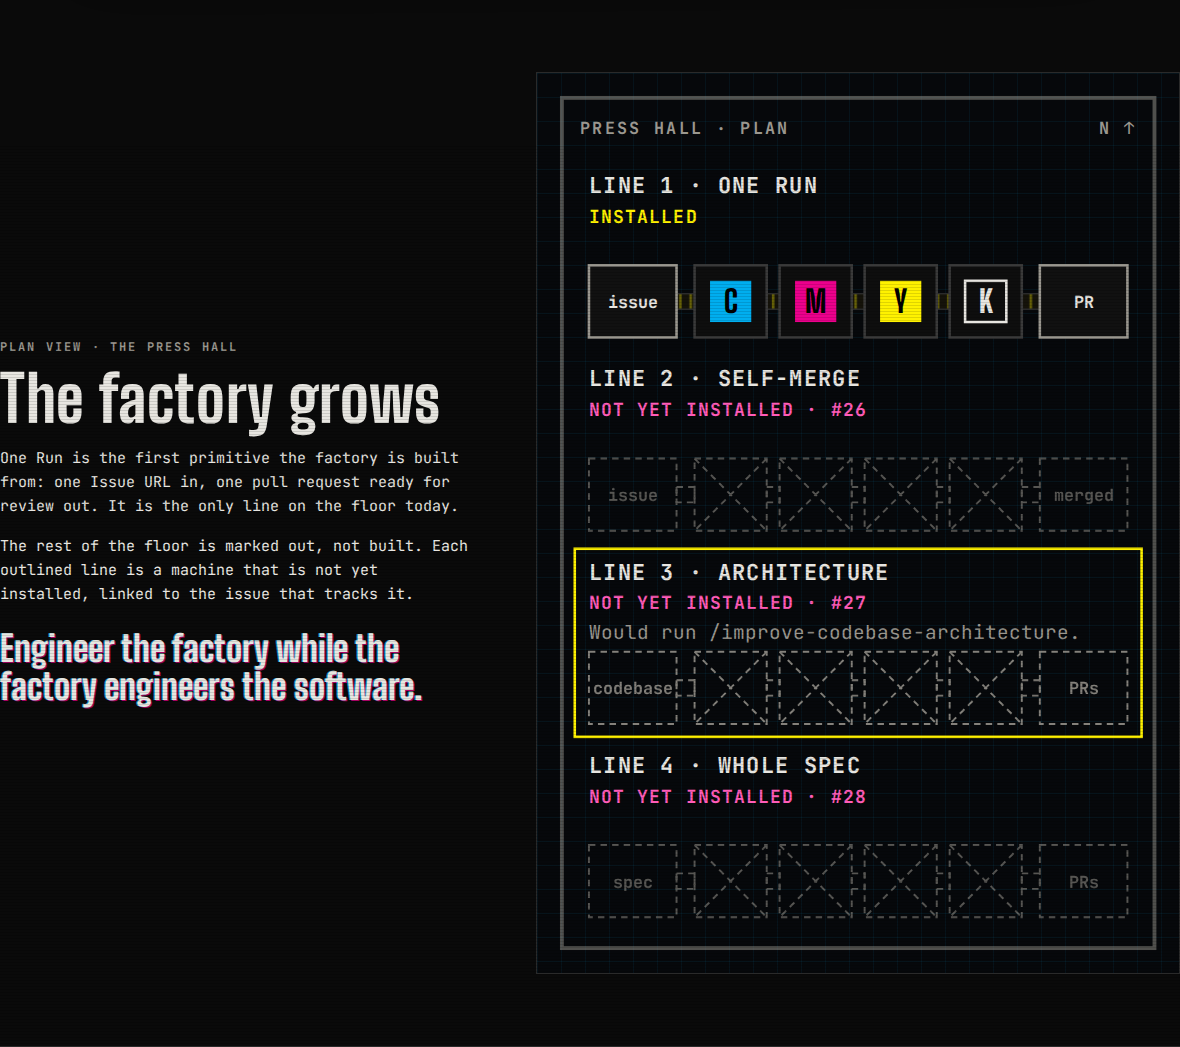
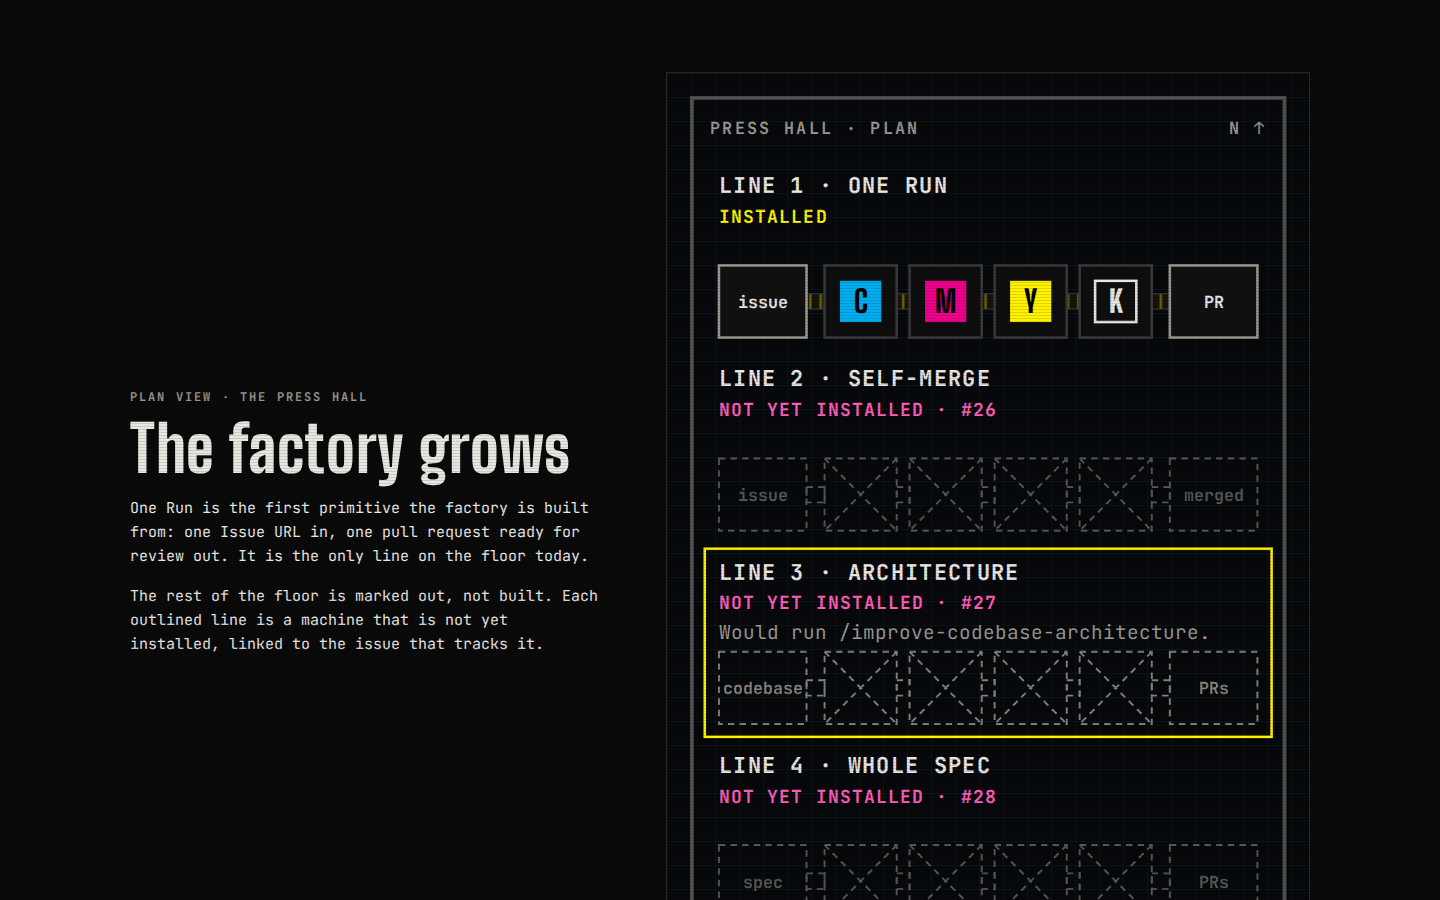
End the section on the closing line; name the SVG labels plainly
- Move "Engineer the factory while the factory engineers the software."
  after the floor plan, spanning both columns, so it ends the section on
  every screen size and for screen readers.
- Rename .line-t/.chest-t/.ink-t to .line-label/.chest-label/.ink-letter
  and drop the unused c/m/y modifiers on the ink letters.
- Colour the belt base from styles.css, not an inline fill.
- Note the 150-unit line pitch, and fix the section-order comment.
- Retake the screenshots.

Changed region(s): [[0.0, 0.0622, 1.0, 1.0], [0.0, 0.3111, 0.4271, 0.7467], [0.8237, 0.3733, 0.8542, 0.4044]]

diff --git a/site/index.html b/site/index.html
@@ -50,22 +50,22 @@
   </div>
 </header>
 
-<!-- Section 5 of the home page order in #61: the factory grows. -->
+<!-- The factory grows: "How the factory will grow" in the home page order in #61. -->
 <section class="wrap grows" id="grows" aria-labelledby="grows-title">
   <div class="grows-text">
     <p class="eyebrow">Plan view · the press hall</p>
     <h2 id="grows-title">The factory grows</h2>
     <p>One Run is the first primitive the factory is built from: one Issue URL in, one pull request ready for review out. It is the only line on the floor today.</p>
     <p>The rest of the floor is marked out, not built. Each outlined line is a machine that is not yet installed, linked to the issue that tracks it.</p>
-    <p class="closing misreg">Engineer the factory while the factory engineers the software.</p>
   </div>
   <figure class="floor grid-bg">
-    <!-- Drawn once, by hand: no animation. Every label is visible text; the hints also show on hover and focus. -->
+    <!-- Drawn once, by hand: no animation. Every label is visible text; the hints also show on hover and focus.
+         Lines sit on a 150-unit pitch (146 frame + 4 gap) from y=60; a new line means a new translate and a taller viewBox and hall. -->
     <svg viewBox="0 0 480 680" role="group" aria-labelledby="floor-title" aria-describedby="floor-desc">
       <title id="floor-title">Floor plan of the press hall</title>
       <desc id="floor-desc">One press line is installed: a Run, from the issue through units C, M, Y and K to a pull request. Three more lines are outlined and not yet installed: self-merge, the architecture pass and implementing a whole spec.</desc>
       <defs>
-        <pattern id="floor-belt" width="8" height="12" patternUnits="userSpaceOnUse"><rect width="8" height="12" fill="#15130a"/><rect class="belt-slat" x="5" width="2" height="12"/></pattern>
+        <pattern id="floor-belt" width="8" height="12" patternUnits="userSpaceOnUse"><rect class="belt-base" width="8" height="12"/><rect class="belt-slat" x="5" width="2" height="12"/></pattern>
       </defs>
       <g class="hall" aria-hidden="true">
         <rect x="10" y="10" width="460" height="660"/>
@@ -75,73 +75,74 @@
       <g transform="translate(0 60)">
         <a href="https://github.com/JacobStephens2/thirdshift#what-a-run-does" class="line">
           <rect class="frame" x="20" y="0" width="440" height="146"/>
-          <text class="line-t" x="31" y="24">LINE 1 · ONE RUN</text>
+          <text class="line-label" x="31" y="24">LINE 1 · ONE RUN</text>
           <text class="status" x="31" y="47">INSTALLED</text>
           <text class="hint" x="31" y="70">An Issue URL in, a pull request out.</text>
           <g aria-hidden="true">
             <rect class="belt" x="99" y="102" width="14" height="12"/><rect class="belt" x="169" y="102" width="10" height="12"/><rect class="belt" x="235" y="102" width="10" height="12"/><rect class="belt" x="301" y="102" width="10" height="12"/><rect class="belt" x="367" y="102" width="14" height="12"/>
-            <rect class="chest" x="31" y="80" width="68" height="56"/><text class="chest-t" x="65" y="113">issue</text>
-            <rect class="unit" x="113" y="80" width="56" height="56"/><rect class="hopper c" x="125" y="92" width="32" height="32"/><text class="ink-t c" x="141" y="117">C</text>
-            <rect class="unit" x="179" y="80" width="56" height="56"/><rect class="hopper m" x="191" y="92" width="32" height="32"/><text class="ink-t m" x="207" y="117">M</text>
-            <rect class="unit" x="245" y="80" width="56" height="56"/><rect class="hopper y" x="257" y="92" width="32" height="32"/><text class="ink-t y" x="273" y="117">Y</text>
-            <rect class="unit" x="311" y="80" width="56" height="56"/><rect class="hopper k" x="323" y="92" width="32" height="32"/><text class="ink-t k" x="339" y="117">K</text>
-            <rect class="chest" x="381" y="80" width="68" height="56"/><text class="chest-t" x="415" y="113">PR</text>
+            <rect class="chest" x="31" y="80" width="68" height="56"/><text class="chest-label" x="65" y="113">issue</text>
+            <rect class="unit" x="113" y="80" width="56" height="56"/><rect class="hopper c" x="125" y="92" width="32" height="32"/><text class="ink-letter" x="141" y="117">C</text>
+            <rect class="unit" x="179" y="80" width="56" height="56"/><rect class="hopper m" x="191" y="92" width="32" height="32"/><text class="ink-letter" x="207" y="117">M</text>
+            <rect class="unit" x="245" y="80" width="56" height="56"/><rect class="hopper y" x="257" y="92" width="32" height="32"/><text class="ink-letter" x="273" y="117">Y</text>
+            <rect class="unit" x="311" y="80" width="56" height="56"/><rect class="hopper k" x="323" y="92" width="32" height="32"/><text class="ink-letter k" x="339" y="117">K</text>
+            <rect class="chest" x="381" y="80" width="68" height="56"/><text class="chest-label" x="415" y="113">PR</text>
           </g>
         </a>
       </g>
       <g transform="translate(0 210)">
         <a href="https://github.com/JacobStephens2/thirdshift/issues/26" class="line ghost">
           <rect class="frame" x="20" y="0" width="440" height="146"/>
-          <text class="line-t" x="31" y="24">LINE 2 · SELF-MERGE</text>
+          <text class="line-label" x="31" y="24">LINE 2 · SELF-MERGE</text>
           <text class="status" x="31" y="47">NOT YET INSTALLED · #26</text>
           <text class="hint" x="31" y="70">Would merge its own pull request.</text>
           <g aria-hidden="true">
             <rect class="belt" x="99" y="102" width="14" height="12"/><rect class="belt" x="169" y="102" width="10" height="12"/><rect class="belt" x="235" y="102" width="10" height="12"/><rect class="belt" x="301" y="102" width="10" height="12"/><rect class="belt" x="367" y="102" width="14" height="12"/>
-            <rect class="chest" x="31" y="80" width="68" height="56"/><text class="chest-t" x="65" y="113">issue</text>
+            <rect class="chest" x="31" y="80" width="68" height="56"/><text class="chest-label" x="65" y="113">issue</text>
             <rect class="footprint" x="113" y="80" width="56" height="56"/><path class="footprint" d="M113 80l56 56M169 80l-56 56"/>
             <rect class="footprint" x="179" y="80" width="56" height="56"/><path class="footprint" d="M179 80l56 56M235 80l-56 56"/>
             <rect class="footprint" x="245" y="80" width="56" height="56"/><path class="footprint" d="M245 80l56 56M301 80l-56 56"/>
             <rect class="footprint" x="311" y="80" width="56" height="56"/><path class="footprint" d="M311 80l56 56M367 80l-56 56"/>
-            <rect class="chest" x="381" y="80" width="68" height="56"/><text class="chest-t" x="415" y="113">merged</text>
+            <rect class="chest" x="381" y="80" width="68" height="56"/><text class="chest-label" x="415" y="113">merged</text>
           </g>
         </a>
       </g>
       <g transform="translate(0 360)">
         <a href="https://github.com/JacobStephens2/thirdshift/issues/27" class="line ghost">
           <rect class="frame" x="20" y="0" width="440" height="146"/>
-          <text class="line-t" x="31" y="24">LINE 3 · ARCHITECTURE</text>
+          <text class="line-label" x="31" y="24">LINE 3 · ARCHITECTURE</text>
           <text class="status" x="31" y="47">NOT YET INSTALLED · #27</text>
           <text class="hint" x="31" y="70">Would run /improve-codebase-architecture.</text>
           <g aria-hidden="true">
             <rect class="belt" x="99" y="102" width="14" height="12"/><rect class="belt" x="169" y="102" width="10" height="12"/><rect class="belt" x="235" y="102" width="10" height="12"/><rect class="belt" x="301" y="102" width="10" height="12"/><rect class="belt" x="367" y="102" width="14" height="12"/>
-            <rect class="chest" x="31" y="80" width="68" height="56"/><text class="chest-t" x="65" y="113">codebase</text>
+            <rect class="chest" x="31" y="80" width="68" height="56"/><text class="chest-label" x="65" y="113">codebase</text>
             <rect class="footprint" x="113" y="80" width="56" height="56"/><path class="footprint" d="M113 80l56 56M169 80l-56 56"/>
             <rect class="footprint" x="179" y="80" width="56" height="56"/><path class="footprint" d="M179 80l56 56M235 80l-56 56"/>
             <rect class="footprint" x="245" y="80" width="56" height="56"/><path class="footprint" d="M245 80l56 56M301 80l-56 56"/>
             <rect class="footprint" x="311" y="80" width="56" height="56"/><path class="footprint" d="M311 80l56 56M367 80l-56 56"/>
-            <rect class="chest" x="381" y="80" width="68" height="56"/><text class="chest-t" x="415" y="113">PRs</text>
+            <rect class="chest" x="381" y="80" width="68" height="56"/><text class="chest-label" x="415" y="113">PRs</text>
           </g>
         </a>
       </g>
       <g transform="translate(0 510)">
         <a href="https://github.com/JacobStephens2/thirdshift/issues/28" class="line ghost">
           <rect class="frame" x="20" y="0" width="440" height="146"/>
-          <text class="line-t" x="31" y="24">LINE 4 · WHOLE SPEC</text>
+          <text class="line-label" x="31" y="24">LINE 4 · WHOLE SPEC</text>
           <text class="status" x="31" y="47">NOT YET INSTALLED · #28</text>
           <text class="hint" x="31" y="70">Would implement every issue in a spec.</text>
           <g aria-hidden="true">
             <rect class="belt" x="99" y="102" width="14" height="12"/><rect class="belt" x="169" y="102" width="10" height="12"/><rect class="belt" x="235" y="102" width="10" height="12"/><rect class="belt" x="301" y="102" width="10" height="12"/><rect class="belt" x="367" y="102" width="14" height="12"/>
-            <rect class="chest" x="31" y="80" width="68" height="56"/><text class="chest-t" x="65" y="113">spec</text>
+            <rect class="chest" x="31" y="80" width="68" height="56"/><text class="chest-label" x="65" y="113">spec</text>
             <rect class="footprint" x="113" y="80" width="56" height="56"/><path class="footprint" d="M113 80l56 56M169 80l-56 56"/>
             <rect class="footprint" x="179" y="80" width="56" height="56"/><path class="footprint" d="M179 80l56 56M235 80l-56 56"/>
             <rect class="footprint" x="245" y="80" width="56" height="56"/><path class="footprint" d="M245 80l56 56M301 80l-56 56"/>
             <rect class="footprint" x="311" y="80" width="56" height="56"/><path class="footprint" d="M311 80l56 56M367 80l-56 56"/>
-            <rect class="chest" x="381" y="80" width="68" height="56"/><text class="chest-t" x="415" y="113">PRs</text>
+            <rect class="chest" x="381" y="80" width="68" height="56"/><text class="chest-label" x="415" y="113">PRs</text>
           </g>
         </a>
       </g>
     </svg>
   </figure>
+  <p class="closing misreg">Engineer the factory while the factory engineers the software.</p>
 </section>
 
 <footer class="wrap foot">

diff --git a/site/styles.css b/site/styles.css
@@ -129,7 +129,7 @@ body::after { /* scanlines */
 .grows-text { display: grid; gap: 16px; }
 .grows-text h2 { font-size: clamp(36px, 5vw, 64px); }
 .grows-text p { margin: 0; max-width: 52ch; }
-.grows .closing { font: var(--f-head-w) clamp(26px, 3vw, 36px)/1.05 var(--f-head); color: var(--paper); margin-top: 8px; text-wrap: balance; }
+.grows .closing { grid-column: 1 / -1; font: var(--f-head-w) clamp(26px, 3vw, 36px)/1.05 var(--f-head); color: var(--paper); margin: 8px 0 0; text-wrap: balance; }
 .floor { margin: 0; border: 1px solid var(--rule); padding: 12px; background-color: #06080b; }
 .floor svg { display: block; width: 100%; height: auto; max-width: 640px; margin-inline: auto; }
 .floor text { font-family: var(--f-mono); font-weight: 700; fill: var(--paper); }
@@ -137,23 +137,24 @@ body::after { /* scanlines */
 .floor .hall text { font-size: 13px; letter-spacing: .14em; fill: var(--dim); }
 .floor .hall .north { text-anchor: end; }
 .floor .frame { fill: transparent; stroke: none; }
-.floor .line-t { font-size: 17px; letter-spacing: .06em; }
+.floor .line-label { font-size: 17px; letter-spacing: .06em; }
 .floor .status { font-size: 14px; letter-spacing: .06em; fill: var(--y); }
 .floor .ghost .status { fill: var(--m-text); }
 .floor .hint { font-size: 15px; font-weight: 400; fill: var(--dim); }
 .floor .chest { fill: #111; stroke: var(--dim); stroke-width: 2; }
-.floor .chest-t { font-size: 13px; text-anchor: middle; fill: var(--paper); }
+.floor .chest-label { font-size: 13px; text-anchor: middle; fill: var(--paper); }
 .floor .belt { fill: url(#floor-belt); stroke: #333; stroke-width: 1; }
+.floor .belt-base { fill: #15130a; }
 .floor .belt-slat { fill: color-mix(in srgb, var(--y) 35%, transparent); }
 .floor .unit { fill: #0e0e0e; stroke: #3a3a3a; stroke-width: 2; }
 .floor .hopper.c { fill: var(--c); } .floor .hopper.m { fill: var(--m); } .floor .hopper.y { fill: var(--y); }
 .floor .hopper.k { fill: none; stroke: var(--paper); stroke-width: 2; }
-.floor .ink-t { font: var(--f-head-w) 24px/1 var(--f-head); text-anchor: middle; fill: #000; }
-.floor .ink-t.k { fill: var(--paper); }
+.floor .ink-letter { font: var(--f-head-w) 24px/1 var(--f-head); text-anchor: middle; fill: #000; }
+.floor .ink-letter.k { fill: var(--paper); }
 /* Not yet installed: floor tape where a machine will stand, and no ink. */
 .floor .ghost .chest, .floor .ghost .belt, .floor .footprint { fill: none; stroke: var(--dim); stroke-width: 1.5; stroke-dasharray: 5 4; }
 .floor .ghost g { opacity: .55; }
-.floor .ghost .chest-t { fill: var(--dim); }
+.floor .ghost .chest-label { fill: var(--dim); }
 /* The hint is the hover and focus label. Only a mouse hides it until hover, so touch screens always show it. */
 .floor a { outline: none; }
 @media (hover: hover) and (pointer: fine) {
